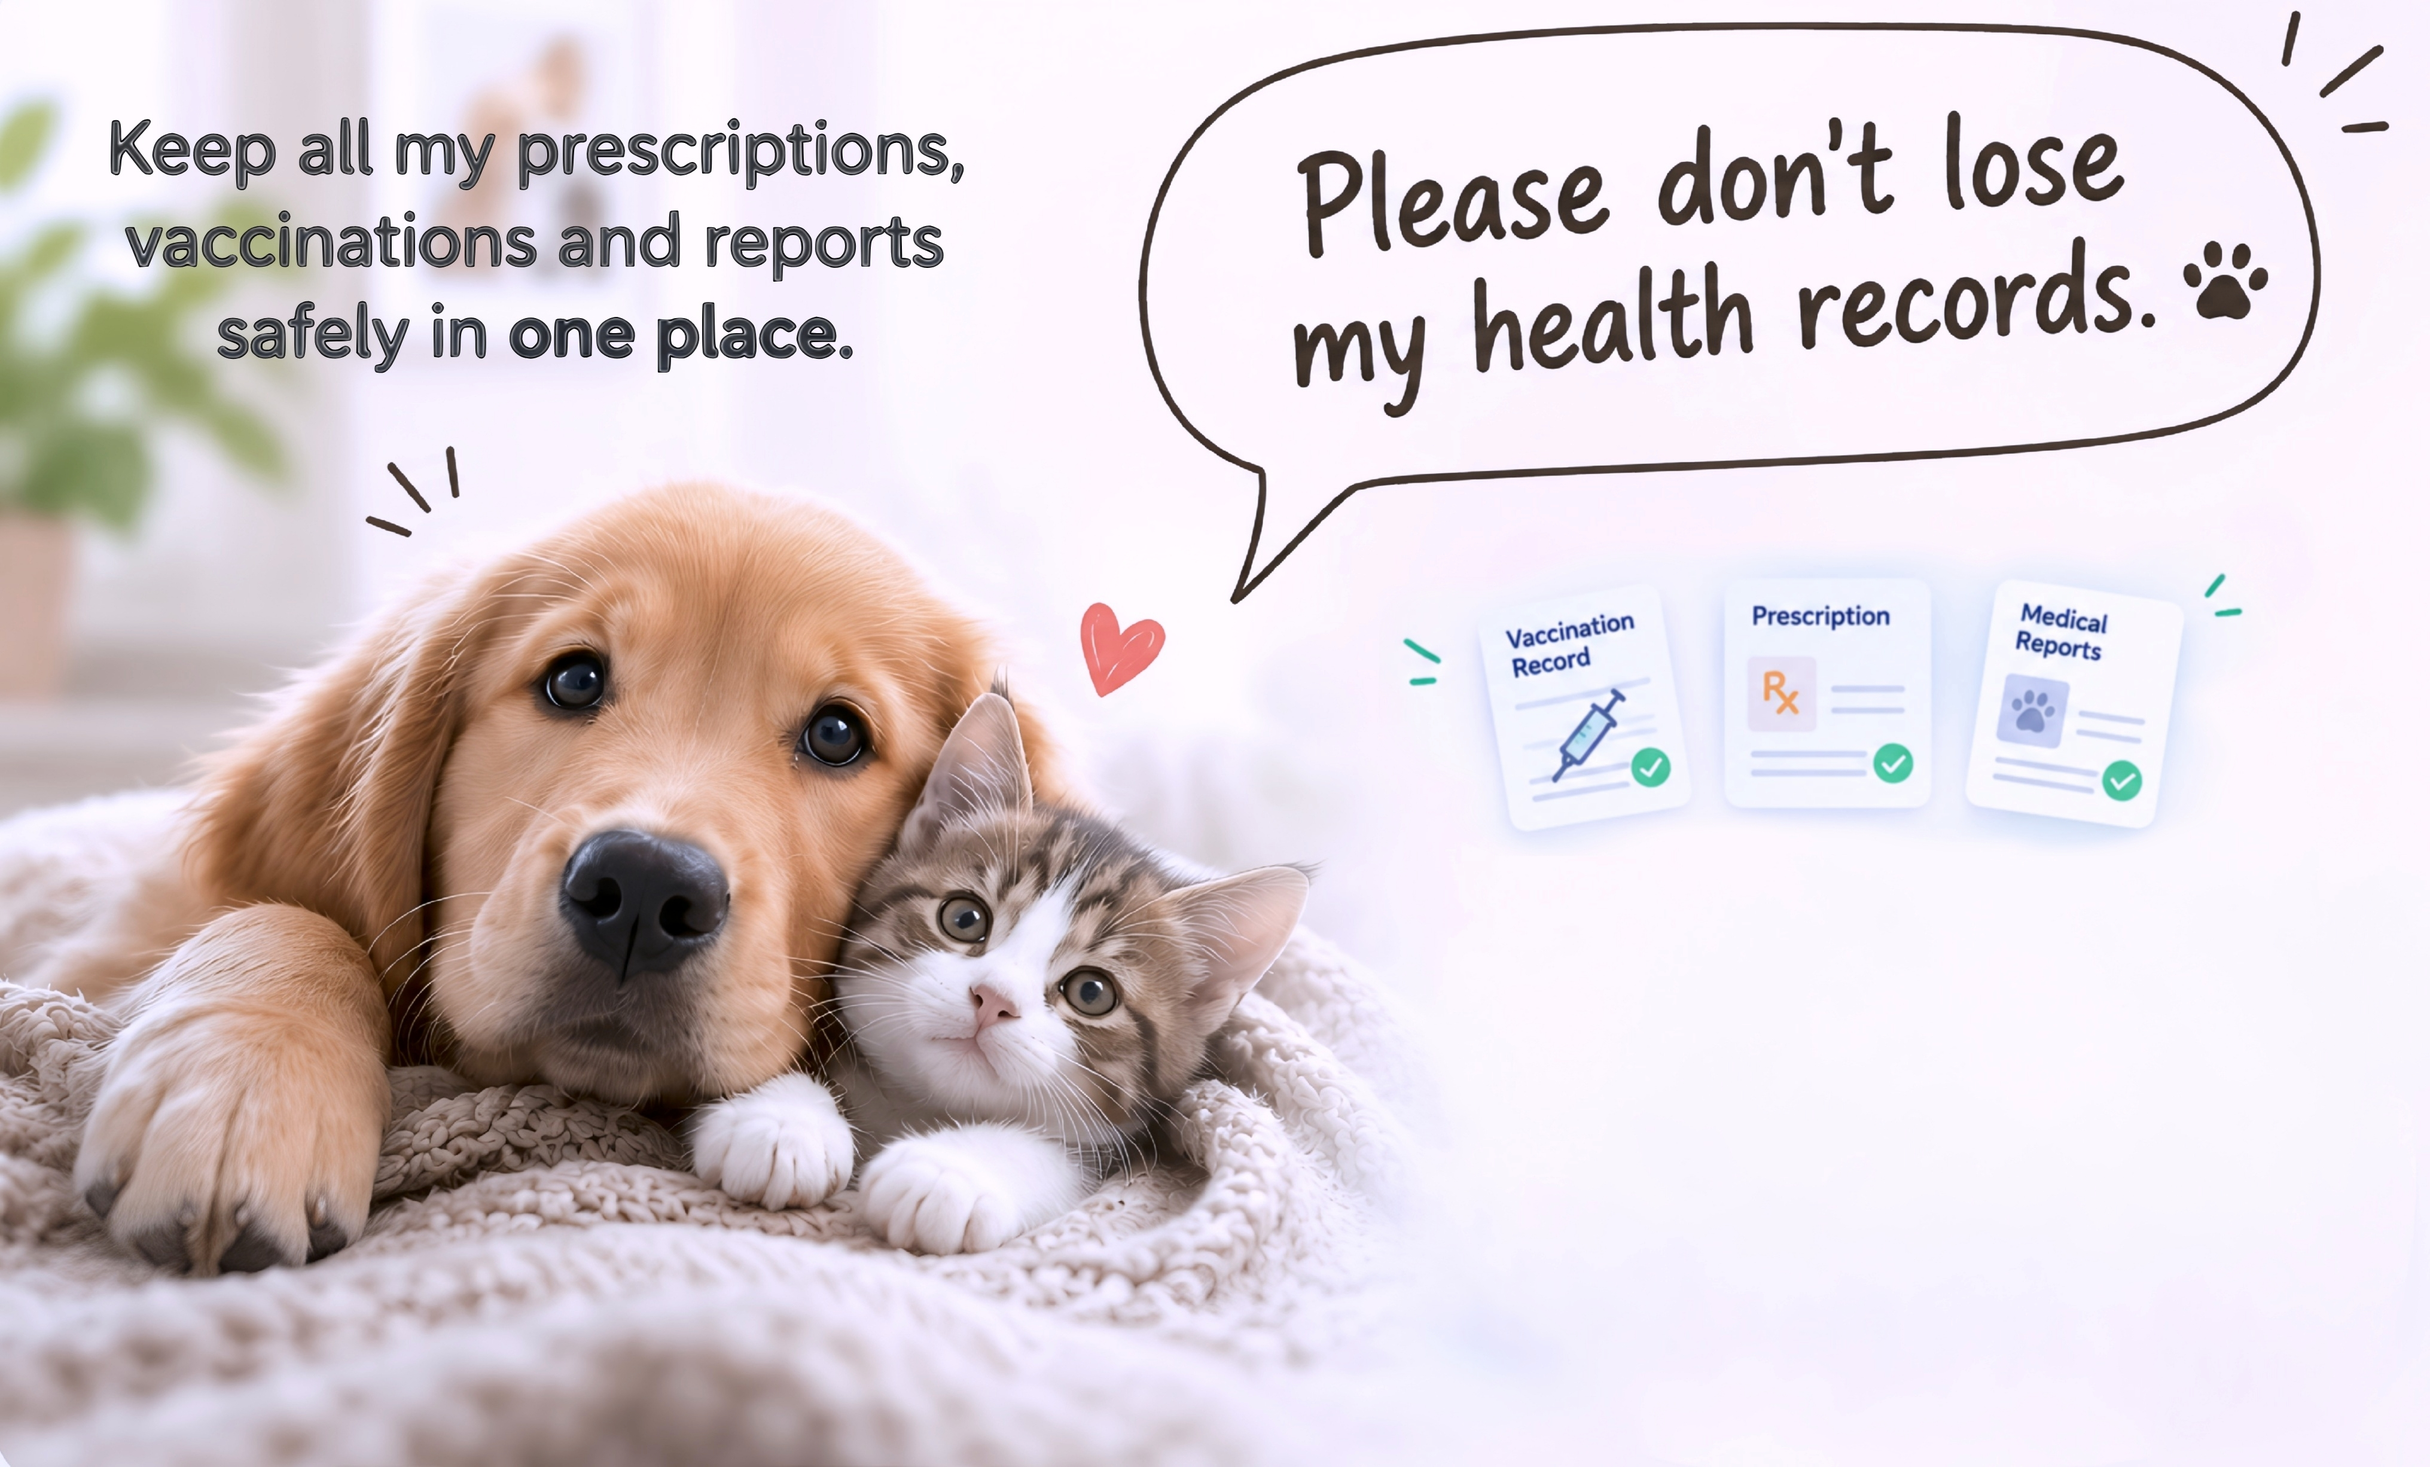
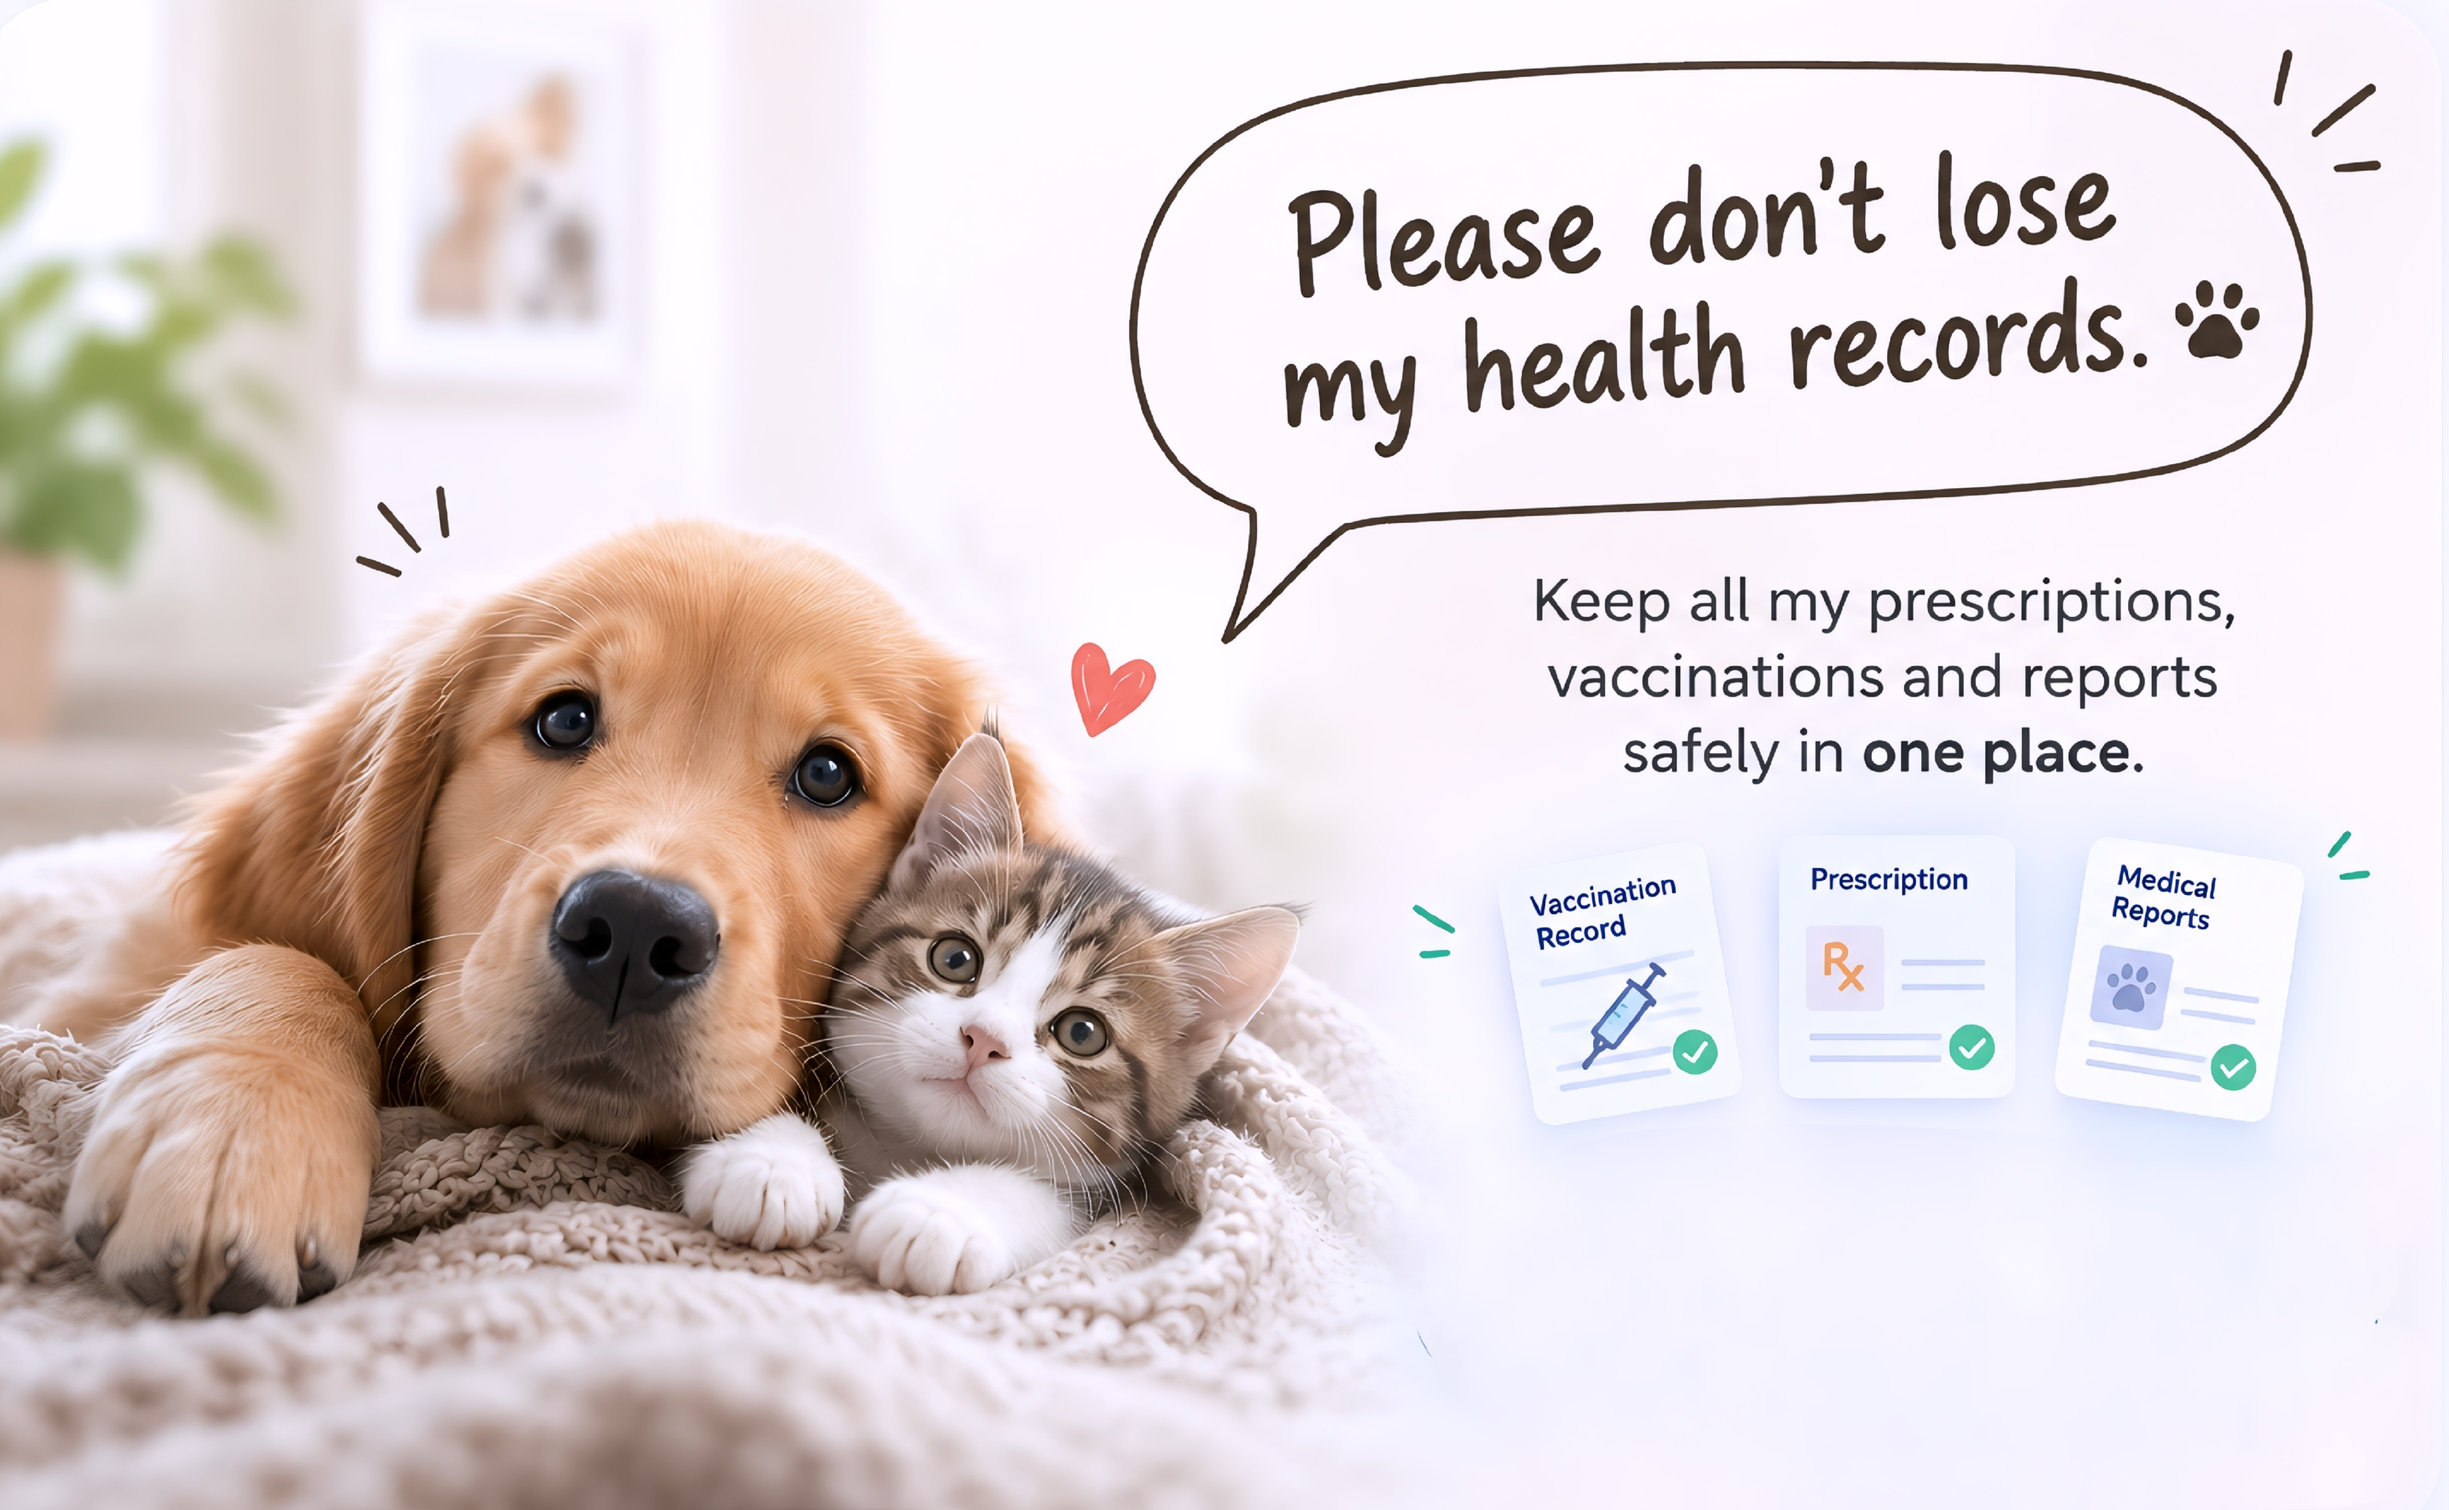
Fix - the preview record and updated img card in the records tab

diff --git a/src/components/medical/MedicalRecords.jsx b/src/components/medical/MedicalRecords.jsx
@@ -31,7 +31,15 @@ import {
   FileQuestion,
   Sparkles,
   BookOpen,
+  Download,
 } from "lucide-react";
+
+/** Check if a URL or filename points to an image (not a PDF). */
+const isImageFile = (url = "", fileType = "", fileName = "") => {
+  if (fileType && fileType.startsWith("image")) return true;
+  const ext = /\.(png|jpe?g|webp|gif|heic|bmp|svg)(\?|$)/i;
+  return ext.test(url) || ext.test(fileName);
+};
 import heroImage from "../../assets/rcrdcard.jpeg";
 import emptyDog from "../../assets/empty-dog.webp";
 
@@ -658,7 +666,7 @@ export default function MedicalRecords({
         </div>
       )}
 
-      {/*preview after upload*/}
+      {/* View existing record */}
       {viewFile && (
         <div className="file-view-overlay" onClick={() => setViewFile(null)}>
           <div className="file-view-card" onClick={(e) => e.stopPropagation()}>
@@ -667,22 +675,35 @@ export default function MedicalRecords({
             </button>
 
             <div className="file-view-content">
-              {viewFile.file_type?.startsWith("image") ? (
+              {isImageFile(viewFile.file_url, viewFile.file_type, viewFile.file_name || viewFile.title) ? (
                 <img src={viewFile.file_url} alt="Preview" />
               ) : (
                 <iframe
-                  src={`${viewFile.file_url}#toolbar=0&navpanes=0`}
+                  src={`${viewFile.file_url}#toolbar=0&navpanes=0&scrollbar=0&view=Fit`}
                   title="PDF"
                 />
               )}
             </div>
-            <button
-              className="delete-btn"
-              onClick={() => setShowDeleteConfirm(true)}
-            >
-              <Trash2 size={20} />
-              Delete Record
-            </button>
+            <div className="file-view-actions">
+              <a
+                className="download-btn"
+                href={viewFile.download_url || viewFile.file_url}
+                download={viewFile.file_name || viewFile.title || "record"}
+                target="_blank"
+                rel="noopener noreferrer"
+                onClick={(e) => e.stopPropagation()}
+              >
+                <Download size={20} />
+                Download
+              </a>
+              <button
+                className="delete-btn"
+                onClick={() => setShowDeleteConfirm(true)}
+              >
+                <Trash2 size={20} />
+                Delete
+              </button>
+            </div>
 
             {showDeleteConfirm && (
               <div className="confirm-dialog">

diff --git a/src/components/medical/MedicalRecords.css b/src/components/medical/MedicalRecords.css
@@ -253,20 +253,34 @@
   overflow: hidden;
 }
 
+/* The image/iframe container — position:relative is the key.
+   The child img/iframe is absolutely positioned inside so it
+   can NEVER exceed this box, no matter its native resolution. */
 .file-view-content {
   flex: 1;
-  display: flex;
-  justify-content: center;
-  align-items: center;
+  position: relative;
   overflow: hidden;
   min-height: 0;
+  border-radius: 12px;
+  background: #f8fafc;
 }
 
-.file-view-content img,
-.file-view-content iframe {
+.file-view-content img {
+  position: absolute;
+  top: 0;
+  left: 0;
   width: 100%;
   height: 100%;
   object-fit: contain;
+}
+
+.file-view-content iframe {
+  position: absolute;
+  top: 0;
+  left: 0;
+  width: 100%;
+  height: 100%;
+  border: none;
 }
 
 .close-btn {
@@ -291,8 +305,36 @@
   color: rgb(240, 240, 240);
 }
 
+/* Download + Delete action row */
+.file-view-actions {
+  display: flex;
+  gap: 10px;
+  flex-shrink: 0;
+}
+
+.download-btn {
+  flex: 1;
+  padding: 12px;
+  background: #2563eb;
+  color: white;
+  border: none;
+  border-radius: 12px;
+  display: flex;
+  justify-content: center;
+  align-items: center;
+  gap: 8px;
+  font-weight: 600;
+  font-size: 14px;
+  cursor: pointer;
+  transition: background 0.2s ease;
+}
+
+.download-btn:hover {
+  background: #1d4ed8;
+}
+
 .delete-btn {
-  width: 100%;
+  flex: 1;
   padding: 12px;
   background: #ff4d4f;
   color: white;
@@ -303,10 +345,9 @@
   align-items: center;
   gap: 8px;
   font-weight: 600;
+  font-size: 14px;
   cursor: pointer;
-  flex-shrink: 0;
-  margin-top: auto;
-  z-index: 2;
+  transition: background 0.2s ease;
 }
 
 .delete-btn:hover {

diff --git a/src/components/Home/NoRecordsCard/NoRecordsCard.css b/src/components/Home/NoRecordsCard/NoRecordsCard.css
@@ -149,8 +149,9 @@
 .file-view-card {
   position: relative;
   width: 100%;
-  max-width: 430px;
+  max-width: 440px;
   height: 80vh;
+  max-height: 600px;
   background: white;
   border-radius: 22px;
   display: flex;
@@ -158,23 +159,36 @@
   padding: 16px;
   gap: 12px;
   overflow: hidden;
+  box-shadow: 0 20px 50px rgba(0, 0, 0, 0.3);
 }
 
 .file-view-content {
   flex: 1;
-  display: flex;
-  justify-content: center;
-  align-items: center;
+  width: 100%;
+  height: 100%;
+  position: relative;
   overflow: hidden;
   min-height: 0;
+  border-radius: 8px;
 }
 
-.file-view-content img,
+.file-view-content img {
+  position: absolute;
+  inset: 0;
+  width: 100%;
+  height: 100%;
+  object-fit: contain;
+  border-radius: 8px;
+}
+
 .file-view-content iframe {
+  position: absolute;
+  inset: 0;
   width: 100%;
   height: 100%;
   object-fit: contain;
   border: none;
+  border-radius: 8px;
 }
 
 .close-btn {

diff --git a/backend/app/services/medical_record_service.py b/backend/app/services/medical_record_service.py
@@ -100,6 +100,19 @@ class MedicalRecordService:
         r = dict(record)
         if r.get("storage_path"):
             r["file_url"] = MedicalRecordService.fresh_url(r["storage_path"])
+            
+            # Generate a presigned URL that forces a browser download
+            display_name = r.get("file_name") or r.get("title") or "record"
+            # Keep original extension if present
+            if "." not in display_name and "." in r["storage_path"]:
+                display_name += "." + r["storage_path"].split(".")[-1]
+                
+            from app.s3_client import get_presigned_download_url, AWS_MEDICAL_DOCS_BUCKET
+            r["download_url"] = get_presigned_download_url(
+                AWS_MEDICAL_DOCS_BUCKET, 
+                r["storage_path"], 
+                display_name
+            )
         return r
 
     # ── Unified Save ──────────────────────────────────────────────
@@ -157,4 +170,4 @@ class MedicalRecordService:
             row["label"] = label
 
         result = db.table("medical_records").insert(row).execute()
-        return result.data[0]
+        return MedicalRecordService.refresh_url_in_record(result.data[0])

diff --git a/backend/app/s3_client.py b/backend/app/s3_client.py
@@ -108,6 +108,28 @@ def get_presigned_url(bucket: str, filename: str, expiration: int = 3600) -> str
         print(f"[S3 Error] Presigned URL generation unexpected error for {filename}: {e}")
         return ""
 
+def get_presigned_download_url(bucket: str, filename: str, display_name: str, expiration: int = 3600) -> str:
+    """Generates a presigned URL that forces a browser download with a specific filename."""
+    try:
+        client = get_s3_client()
+        safe_name = display_name.replace('"', '')
+        url = client.generate_presigned_url(
+            'get_object',
+            Params={
+                'Bucket': bucket, 
+                'Key': filename,
+                'ResponseContentDisposition': f'attachment; filename="{safe_name}"'
+            },
+            ExpiresIn=expiration
+        )
+        return url
+    except ClientError as e:
+        print(f"[S3 Error] Presigned download URL generation failed for {filename}: {e}")
+        return ""
+    except Exception as e:
+        print(f"[S3 Error] Presigned download URL generation unexpected error for {filename}: {e}")
+        return ""
+
 
 def process_upload_image_bytes(file_bytes: bytes, filename: str, content_type: str = "") -> tuple[bytes, str, str]:
     """
